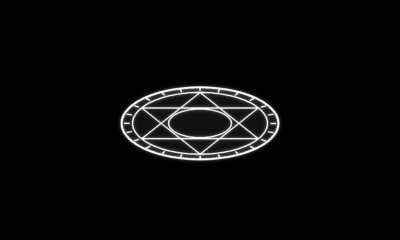
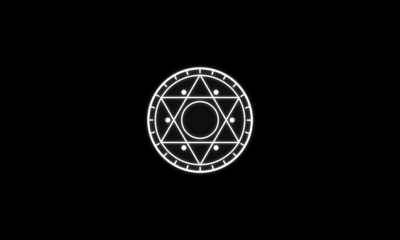
메인 배경을 도트에서 부드러운 빛으로 변경: 빛 알갱이로 풀렸다 맺히는 전환, SAFE OUT 경고 표지, 세운 마법진, 연락처 구분선 줄임
Claude-Session: https://claude.ai/code/session_01Sa7yTYtcoDL1XnCW4rccMs

Changed region(s): [[0.3, 0.2625, 0.72, 0.7292]]

diff --git a/grain.js b/grain.js
@@ -1,6 +1,5 @@
-// 메인 배경의 입자 그림: 고른 작품에 맞는 모양을 점으로 그린다.
-// 작품을 바꾸면 점들이 별처럼 흩어졌다가 새 모양으로 모인다.
-// 모양은 화면 가운데에 크게 놓는다.
+// 메인 배경의 빛 그림: 고른 작품에 맞는 모양을 이름과 대표 영상 사이에 부드러운 빛으로 그린다.
+// 작품을 바꾸면 그림이 빛 알갱이로 풀려서 휘어 돌며 새 모양의 자리로 가고, 다시 그림으로 맺힌다.
 // 이 스크립트가 없거나 실패하면 넓은 화면에서는 기존의 단색 도형이 그대로 보인다.
 const host = document.querySelector(".portfolio-profile");
 const stage = document.querySelector(".featured-stage");
@@ -13,16 +12,15 @@ const reduceMotion = window.matchMedia("(prefers-reduced-motion: reduce)");
 const MAP_W = 400, MAP_H = 240, VIDEO_X = 200, VIDEO_Y = 120, VIDEO_W = 156;
 const BAYER = [0,32,8,40,2,34,10,42,48,16,56,24,50,18,58,26,12,44,4,36,14,46,6,38,60,28,52,20,62,30,54,22,
   3,35,11,43,1,33,9,41,51,19,59,27,49,17,57,25,15,47,7,39,13,45,5,37,63,31,55,23,61,29,53,21];
-const MOVE = 600, MOVE_LAG = 160; // 밀리초: 점이 새 자리로 가는 시간, 점마다 출발을 늦추는 최대 폭
+const MOVE = 720, MOVE_LAG = 230, FUSE = 470; // 밀리초: 알갱이가 새 자리로 가는 시간, 알갱이마다 출발을 늦추는 최대 폭, 알갱이가 그림으로 넘어가는 시간
 
 let seed = 1;
 const random = () => (seed = seed * 16807 % 2147483647) / 2147483647;
-const settle = u => 1 - (1 - u) ** 2.4; // 바로 출발해서 끝에서 천천히 자리에 앉는다
 const clamp01 = u => Math.min(1, Math.max(0, u));
 
 async function loadShape(slug) {
   const image = new Image();
-  image.src = `./assets/grain/${slug}.png?v=6`;
+  image.src = `./assets/grain/${slug}.png?v=7`;
   await image.decode();
   const canvas = document.createElement("canvas");
   canvas.width = MAP_W; canvas.height = MAP_H;
@@ -44,29 +42,42 @@ async function loadShape(slug) {
   return Float32Array.from(points);
 }
 
-// 별 자리: 작품 영역 안에서 몇 군데 뭉치게, 영상 뒤는 비운다
-function makeStars() {
-  const clusters = [[190, 30, 60, 26], [330, 40, 70, 30], [395, 150, 40, 50], [250, 205, 90, 22], [170, 150, 26, 40]];
-  const spread = () => random() + random() + random() + random() - 2;
-  const stars = [];
-  while (stars.length < 150) {
-    let x, y;
-    if (random() < .75) { const c = clusters[Math.floor(random() * clusters.length)]; x = c[0] + spread() * c[2]; y = c[1] + spread() * c[3]; }
-    else { x = 165 + random() * 270; y = random() * 215; }
-    if (x < 160 || x > 435 || y < 2 || y > 218) continue;
-    if (x > 176 && x < 338 && y > 38 && y < 130) continue;
-    stars.push({ x, y, size: random() });
-  }
-  return stars;
-}
-
 async function start() {
   const slugs = tabs.map(tab => tab.dataset.work);
   const shapes = Object.fromEntries(await Promise.all(slugs.map(async slug => [slug, await loadShape(slug)])));
-  const stars = makeStars();
+
+  // 멈춰 있을 때는 또렷한 빛 그림(still)을, 바뀌는 동안에는 움직이는 빛 알갱이(canvas)를 보여 준다.
+  // 멈춘 화면용 그림은 점 지도보다 세 배 촘촘한 것을 따로 쓴다(선이 또렷하게 보이도록).
+  const HI = 3, tints = {};
+  await Promise.all(slugs.map(async slug => {
+    const image = new Image(); image.src = `./assets/grain/${slug}-hi.png?v=1`; await image.decode();
+    const source = document.createElement("canvas"); source.width = MAP_W * HI; source.height = MAP_H * HI;
+    const g = source.getContext("2d", { willReadFrequently: true }); g.drawImage(image, 0, 0, source.width, source.height);
+    tints[slug] = { levels: g.getImageData(0, 0, source.width, source.height).data, canvas: document.createElement("canvas") };
+    tints[slug].canvas.width = source.width; tints[slug].canvas.height = source.height;
+  }));
+  const still = document.createElement("canvas");
+  still.className = "profile-grain";
+  still.style.cssText = "image-rendering:auto;";
+  still.setAttribute("aria-hidden", "true");
+  host.prepend(still);
+  let cellSize = 6;
+  function drawStill(slug) {
+    const { levels, canvas: tint } = tints[slug], tc = tint.getContext("2d"), image = tc.createImageData(tint.width, tint.height);
+    for (let i = 0; i < tint.width * tint.height; i++) { image.data[i*4] = color[0]; image.data[i*4+1] = color[1]; image.data[i*4+2] = color[2]; image.data[i*4+3] = Math.min(255, levels[i*4] * 1.3); }
+    tc.putImageData(image, 0, 0);
+    const box = host.getBoundingClientRect(), g = still.getContext("2d"), ratio = Math.min(2, window.devicePixelRatio || 1);
+    still.width = Math.ceil(box.width * ratio); still.height = Math.ceil(box.height * ratio);
+    g.scale(ratio, ratio); g.imageSmoothingQuality = "high";
+    const args = [tint, offsetX * cellSize, offsetY * cellSize, MAP_W * cellSize, MAP_H * cellSize];
+    g.filter = "blur(18px)"; g.globalAlpha = .45; g.drawImage(...args);   // 옅게 번지는 빛
+    g.filter = "blur(1.4px)"; g.globalAlpha = .95; g.drawImage(...args);  // 선(살짝만 풀어서 너무 날카롭지 않게)
+  }
+
 
   const canvas = document.createElement("canvas");
   canvas.className = "profile-grain";
+  canvas.style.cssText = "image-rendering:auto;filter:blur(2px) brightness(1.45) saturate(1.25);opacity:0;";
   canvas.setAttribute("aria-hidden", "true");
   host.prepend(canvas);
   const context = canvas.getContext("2d");
@@ -89,6 +100,7 @@ async function start() {
     // 넓은 화면: 모양의 중심을 이름과 대표 영상 사이의 빈 곳에 둔다.
     // 좁은 화면: 대표 영상을 중심으로 두고, 모양이 영상 밖으로 보이도록 입자를 키운다.
     const cell = wide.matches ? video.width / VIDEO_W * 1.5 : box.width / 90;
+    cellSize = cell;
     canvas.width = Math.ceil(box.width / cell);
     canvas.height = Math.ceil(box.height / cell);
     if (wide.matches) {
@@ -101,21 +113,19 @@ async function start() {
     }
   }
 
-  function paint(points, count, starGlow = 0) {
+  let trail = new Uint8ClampedArray(0);
+  function paint(points, count) {
     const { width, height } = canvas;
-    const image = context.createImageData(width, height);
-    const pixels = image.data;
-    const put = (x, y) => {
-      x = Math.round(x) + offsetX; y = Math.round(y) + offsetY;
-      if (x < 0 || y < 0 || x >= width || y >= height) return;
-      const i = (y * width + x) * 4;
-      pixels[i] = color[0]; pixels[i + 1] = color[1]; pixels[i + 2] = color[2]; pixels[i + 3] = 255;
-    };
-    for (let i = 0; i < count; i++) put(points[i * 2], points[i * 2 + 1]);
-    if (starGlow > 0) for (const star of stars) {
-      if (star.size > .55) { put(star.x + 1, star.y); put(star.x, star.y + 1); put(star.x + 1, star.y + 1); }
-      if (star.size > .86 && starGlow > .5) { put(star.x - 1, star.y); put(star.x + 2, star.y); put(star.x, star.y - 1); put(star.x, star.y + 2); }
+    if (trail.length !== width * height) trail = new Uint8ClampedArray(width * height);
+    for (let i = 0; i < trail.length; i++) trail[i] = trail[i] * .7; // 지나간 자리에 꼬리가 남는다
+    for (let n = 0; n < count; n++) {
+      if (n % 5 === 4) continue; // 알갱이를 조금 덜어낸다
+      const x = Math.round(points[n * 2]) + offsetX, y = Math.round(points[n * 2 + 1]) + offsetY;
+      if (x < 0 || y < 0 || x >= width || y >= height) continue;
+      trail[y * width + x] = 255;
     }
+    const image = context.createImageData(width, height), pixels = image.data;
+    for (let i = 0; i < trail.length; i++) { pixels[i*4] = color[0]; pixels[i*4+1] = color[1]; pixels[i*4+2] = color[2]; pixels[i*4+3] = trail[i]; }
     context.putImageData(image, 0, 0);
   }
 
@@ -123,12 +133,14 @@ async function start() {
     const target = shapes[slug];
     if (!target) return;
     cancelAnimationFrame(frame);
-    if (!animate || reduceMotion.matches) { current = target; paint(current, current.length / 2); return; }
+    if (!animate || reduceMotion.matches) { current = target; drawStill(slug); still.style.opacity = 1; canvas.style.opacity = 0; return; }
+    trail.fill(0);
 
     const from = current, fromCount = from.length / 2, toCount = target.length / 2;
     const count = Math.max(fromCount, toCount, 1);
     const moving = new Float32Array(count * 2);
     const began = performance.now();
+    let redrawn = false;
 
     // 점 하나하나가 지금 자리에서 새 모양의 자리로 곧장 날아간다.
     // 두 모양의 점 개수가 다르면, 남는 점은 다른 점과 같은 자리로 겹쳐 들어가고 모자란 점은 겹쳐 있던 자리에서 갈라져 나온다.
@@ -138,14 +150,21 @@ async function start() {
         const a = fromCount ? (i % fromCount) * 2 : (i % toCount) * 2, b = (i % toCount) * 2;
         const source = fromCount ? from : target;
         const lag = ((i * 2654435761) >>> 0) / 4294967296; // 점마다 조금씩 다른 출발 시간
-        const u = settle(clamp01((time - lag * MOVE_LAG) / (MOVE - MOVE_LAG)));
-        moving[i * 2] = source[a] + (target[b] - source[a]) * u;
-        moving[i * 2 + 1] = source[a + 1] + (target[b + 1] - source[a + 1]) * u;
+        const v = clamp01((time - lag * MOVE_LAG) / (MOVE - MOVE_LAG)), u = v * v * (3 - 2 * v); // 천천히 출발해 가운데서 빠르고 끝에서 감속
+        const dx = target[b] - source[a], dy = target[b + 1] - source[a + 1], bend = Math.sin(Math.PI * u) * .3; // 곧장 가지 않고 한쪽으로 휘어 돈다
+        moving[i * 2] = source[a] + dx * u - dy * bend;
+        moving[i * 2 + 1] = source[a + 1] + dy * u + dx * bend;
       }
       paint(moving, count);
       current = moving;
-      if (time < MOVE) frame = requestAnimationFrame(step);
-      else { current = target; paint(current, toCount); }
+      // 처음 0.15초: 또렷한 그림이 알갱이로 풀린다. 알갱이가 자리에 거의 온 뒤 0.5초: 알갱이가 또렷한 그림으로 천천히 넘어간다.
+      // (겹쳐서 넘기기 때문에 바뀌는 순간이 눈에 띄지 않는다)
+      const loosen = clamp01(time / 150), fuse = clamp01((time - MOVE * .62) / FUSE), fused = fuse * fuse * (3 - 2 * fuse);
+      if (!redrawn && loosen >= 1) { redrawn = true; drawStill(slug); }
+      still.style.opacity = redrawn ? fused : 1 - loosen;
+      canvas.style.opacity = loosen * (1 - fused);
+      if (time < MOVE * .62 + FUSE) frame = requestAnimationFrame(step);
+      else { current = target; still.style.opacity = 1; canvas.style.opacity = 0; }
     };
     frame = requestAnimationFrame(step);
   }

diff --git a/index.html b/index.html
@@ -20,10 +20,10 @@
   <link rel="preconnect" href="https://cdn.jsdelivr.net" crossorigin>
   <link rel="stylesheet" href="https://cdn.jsdelivr.net/gh/orioncactus/pretendard@v1.3.9/dist/web/variable/pretendardvariable-dynamic-subset.min.css">
   <link rel="stylesheet" href="./plain.css?v=cool-1">
-  <link rel="stylesheet" href="./portfolio.css?v=pad-1">
+  <link rel="stylesheet" href="./portfolio.css?v=light-1">
   <script type="module" src="./dock.js?v=cool-1"></script>
   <script type="module" src="./work-deck.js?v=fade"></script>
-  <script type="module" src="./grain.js?v=8"></script>
+  <script type="module" src="./grain.js?v=9"></script>
 </head>
 <body class="home-page portfolio-page portfolio-home portfolio-nav-page">
 <div class="page">

diff --git a/aka/index.html b/aka/index.html
@@ -20,7 +20,7 @@
   <link rel="preconnect" href="https://cdn.jsdelivr.net" crossorigin>
   <link rel="stylesheet" href="https://cdn.jsdelivr.net/gh/orioncactus/pretendard@v1.3.9/dist/web/variable/pretendardvariable-dynamic-subset.min.css">
   <link rel="stylesheet" href="../plain.css?v=cool-1">
-  <link rel="stylesheet" href="../portfolio.css?v=pad-1">
+  <link rel="stylesheet" href="../portfolio.css?v=light-1">
   <link rel="stylesheet" href="../steamheart/steamheart.css?v=mob-1">
   <script type="module" src="../steamheart/section-doc.js?v=rename"></script>
   <script type="module" src="../steamheart/boss-pattern-player.js?v=groups"></script>

diff --git a/daeva/index.html b/daeva/index.html
@@ -20,7 +20,7 @@
   <link rel="preconnect" href="https://cdn.jsdelivr.net" crossorigin>
   <link rel="stylesheet" href="https://cdn.jsdelivr.net/gh/orioncactus/pretendard@v1.3.9/dist/web/variable/pretendardvariable-dynamic-subset.min.css">
   <link rel="stylesheet" href="../plain.css?v=cool-1">
-  <link rel="stylesheet" href="../portfolio.css?v=pad-1">
+  <link rel="stylesheet" href="../portfolio.css?v=light-1">
   <link rel="stylesheet" href="../steamheart/steamheart.css?v=mob-1">
   <script type="module" src="../steamheart/section-doc.js?v=rename"></script>
   <script type="module" src="../steamheart/boss-pattern-player.js?v=groups"></script>

diff --git a/safe-out/index.html b/safe-out/index.html
@@ -20,7 +20,7 @@
   <link rel="preconnect" href="https://cdn.jsdelivr.net" crossorigin>
   <link rel="stylesheet" href="https://cdn.jsdelivr.net/gh/orioncactus/pretendard@v1.3.9/dist/web/variable/pretendardvariable-dynamic-subset.min.css">
   <link rel="stylesheet" href="../plain.css?v=cool-1">
-  <link rel="stylesheet" href="../portfolio.css?v=pad-1">
+  <link rel="stylesheet" href="../portfolio.css?v=light-1">
   <link rel="stylesheet" href="../steamheart/steamheart.css?v=mob-1">
   <script type="module" src="../steamheart/boss-pattern-player.js?v=groups"></script>
   <script type="module" src="../steamheart/section-doc.js?v=rename"></script>

diff --git a/steamheart/index.html b/steamheart/index.html
@@ -20,7 +20,7 @@
   <link rel="preconnect" href="https://cdn.jsdelivr.net" crossorigin>
   <link rel="stylesheet" href="https://cdn.jsdelivr.net/gh/orioncactus/pretendard@v1.3.9/dist/web/variable/pretendardvariable-dynamic-subset.min.css">
   <link rel="stylesheet" href="../plain.css?v=cool-1">
-  <link rel="stylesheet" href="../portfolio.css?v=pad-1">
+  <link rel="stylesheet" href="../portfolio.css?v=light-1">
   <link rel="stylesheet" href="./steamheart.css?v=mob-1">
   <script type="module" src="./boss-pattern-player.js?v=groups"></script>
   <script type="module" src="./section-doc.js?v=rename"></script>

diff --git a/portfolio.css b/portfolio.css
@@ -470,3 +470,8 @@
   /* 저장소 주소에서 github.com/ 을 줄여 화살표만 다음 줄로 떨어지지 않게 한다 */
   .url-host { display: none; }
 }
+
+/* 넓은 화면: 연락처의 구분선을 글자 길이까지만 둔다(가운데 빛 그림 쪽으로 뻗지 않게) */
+@media (min-width: 80rem) {
+  .profile-contact { width: fit-content; }
+}
